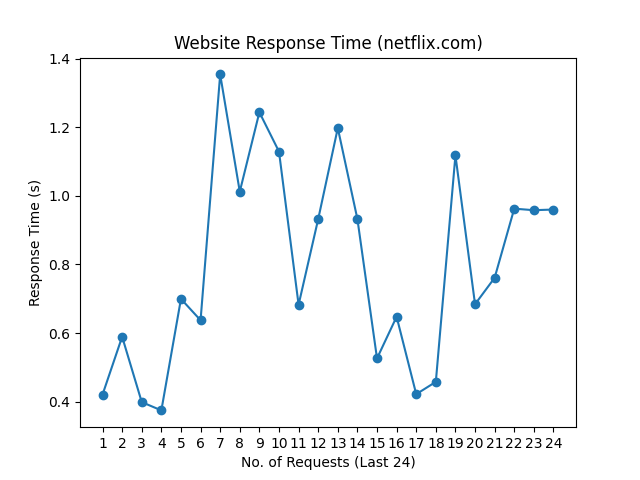
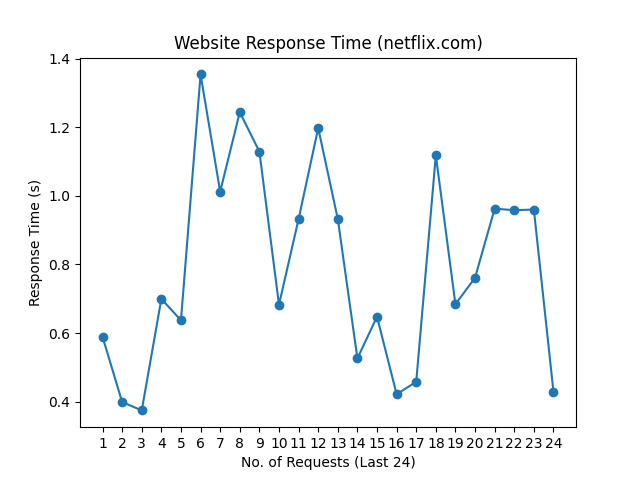
update README.md, history and graph

Changed region(s): [[0.1562, 0.125, 0.875, 0.875], [0.8438, 0.5625, 0.875, 0.8438]]

diff --git a/README.md b/README.md
@@ -1,10 +1,10 @@
 # Web Monitoring
 
-Last Checked: 21/04/2024 09:06
+Last Checked: 22/04/2024 09:03
 
 | Website | Response Time (s) | Status | Avg Uptime (%) |
 |---------|-------------------|--------|----------------|
 | www.thiswebsiteisdown.net | 0 <br> <img src="graph/thiswebsiteisdown.net.png" alt="Graph" width="200" height="200">  | ❌ Down | 0.00 |
-| www.netflix.com | 0.960386 <br> <img src="graph/netflix.com.png" alt="Graph" width="200" height="200">  | ✅ Up | 100.00 |
-| www.google.com | 0.098192 <br> <img src="graph/google.com.png" alt="Graph" width="200" height="200">  | ✅ Up | 100.00 |
-| www.facebook.com | 0.825778 <br> <img src="graph/facebook.com.png" alt="Graph" width="200" height="200">  | ✅ Up | 100.00 |
+| www.netflix.com | 0.428774 <br> <img src="graph/netflix.com.png" alt="Graph" width="200" height="200">  | ✅ Up | 100.00 |
+| www.google.com | 0.091163 <br> <img src="graph/google.com.png" alt="Graph" width="200" height="200">  | ✅ Up | 100.00 |
+| www.facebook.com | 0.307162 <br> <img src="graph/facebook.com.png" alt="Graph" width="200" height="200">  | ✅ Up | 100.00 |
